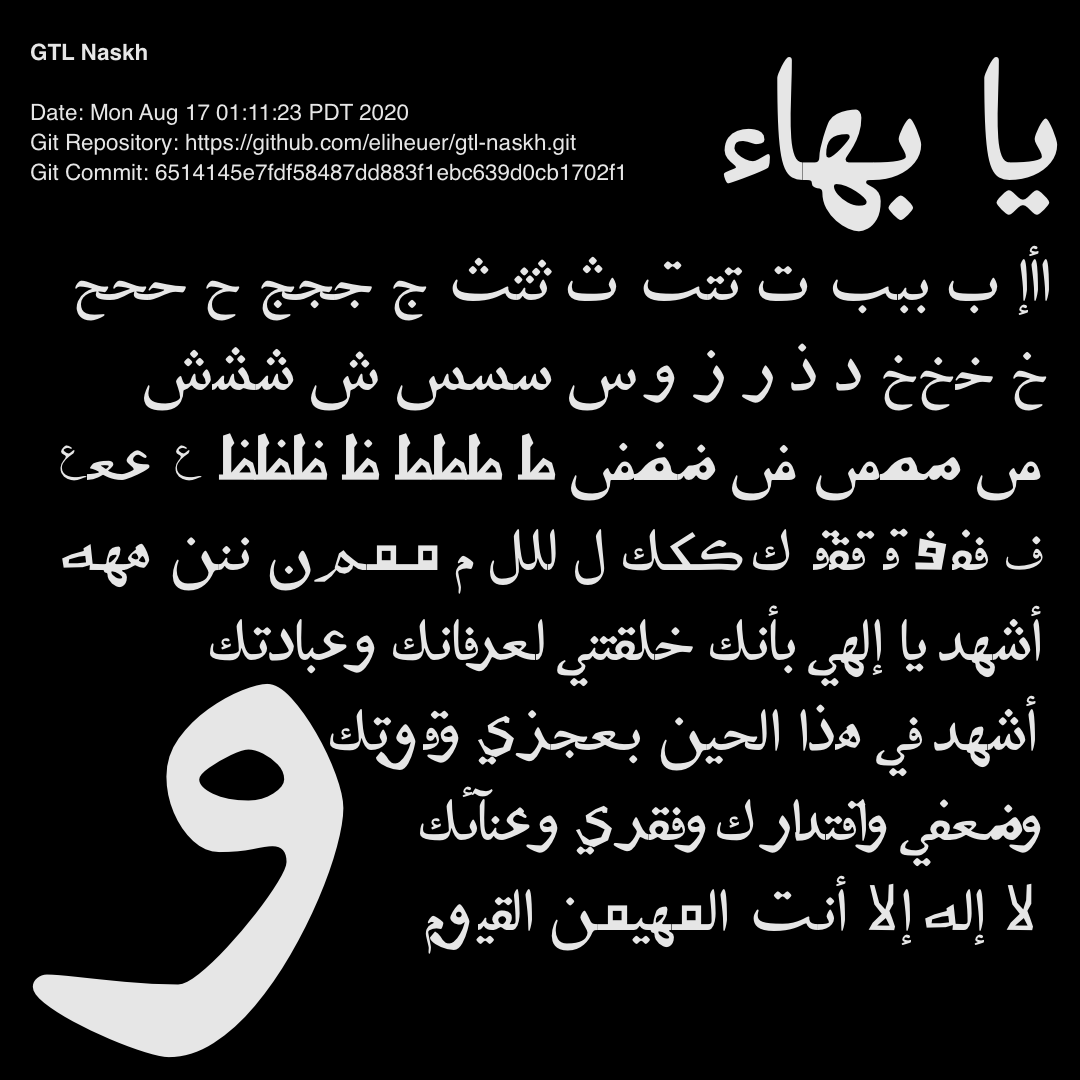
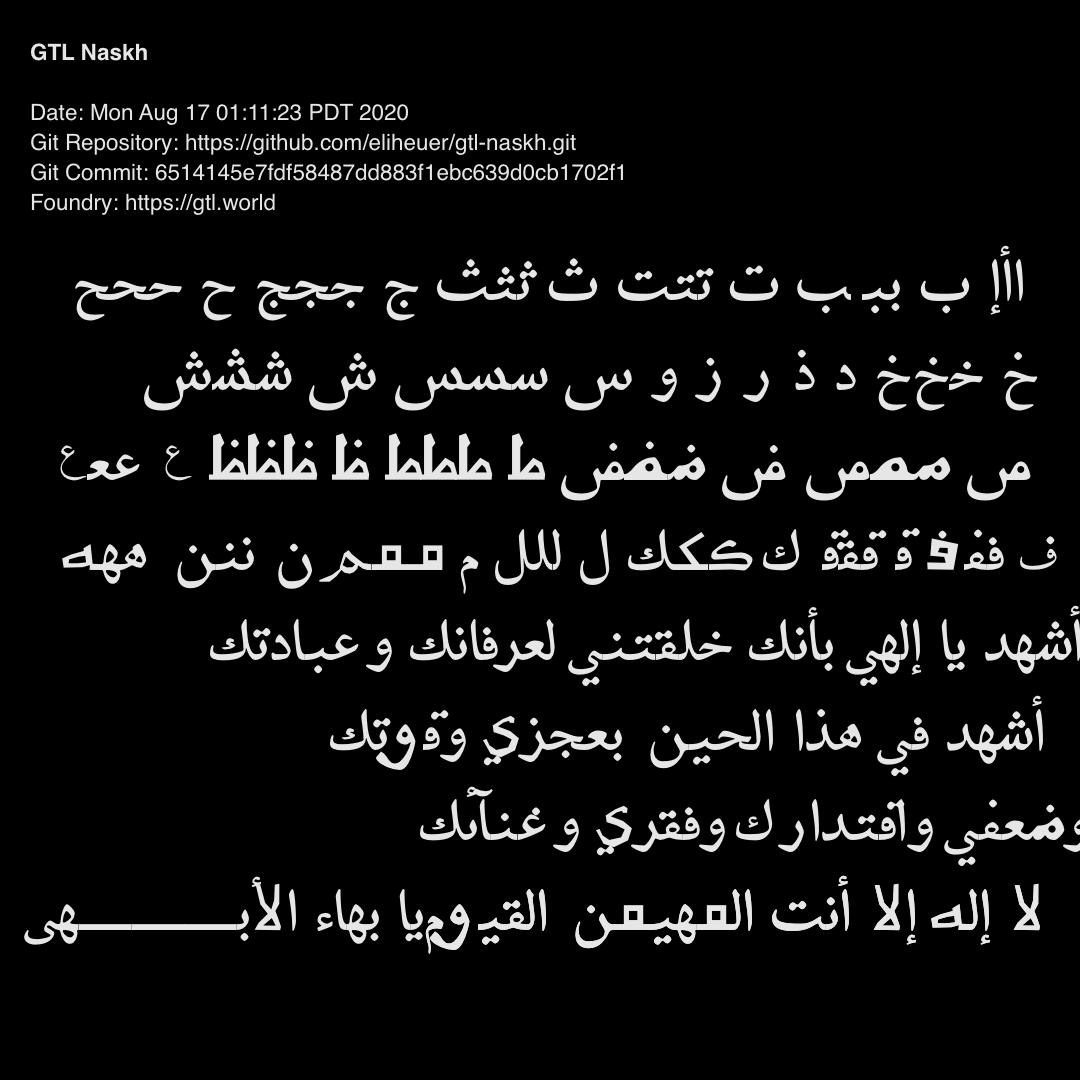
Update basic specimen image nad source

diff --git a/documentation/instagram/basic-specimen.py b/documentation/instagram/basic-specimen.py
@@ -45,6 +45,7 @@ font("Helvetica")
 text("Date: Mon Aug 17 01:11:23 PDT 2020", (M*1, M*32))
 text("Git Repository: https://github.com/eliheuer/gtl-naskh.git", (M*1, M*31))
 text("Git Commit: 6514145e7fdf58487dd883f1ebc639d0cb1702f1", (M*1, M*30))
+text("Foundry: https://gtl.world", (M*1, M*29))
 
 font("fonts/ttf/GTLNaskh-Regular.ttf")
 fontSize(M*2)
@@ -58,12 +59,11 @@ text("أشهد يا إلهي بأنّك خلقتني لعرفانك وعبادت
 text("أشهد في هذا الحين بعجزي وقوّتك", (M*11, M*11))
 text("وضعفي واقتدارك وفقري وغنآئك", (M*14, M*8))
 text("لا إله إلاّ أنت المهيمن القيّوم", (M*14.2, M*5))
+text("لا إله إلاّ أنت المهيمن القيّوم", (M*14.2, M*5))
+text("يا بهاء الأبـــهى", (M*1, M*5))
 
-fontSize(M*20)
-text("و", (M*5, M*5))
 
-fontSize(M*6)
-text("يا بهاء", (M*24, M*30))
 # SAVE THE IMAGE IN THIS SCRIPT'S DIRECTORY LOCATION
 # POST-PROCESS: gifsicle -i text-specimen.gif --optimize=16 -o output.gif
 saveImage("documentation/instagram/basic-specimen-001.png")
+print("\n[DrawBot]: specimens updated")
